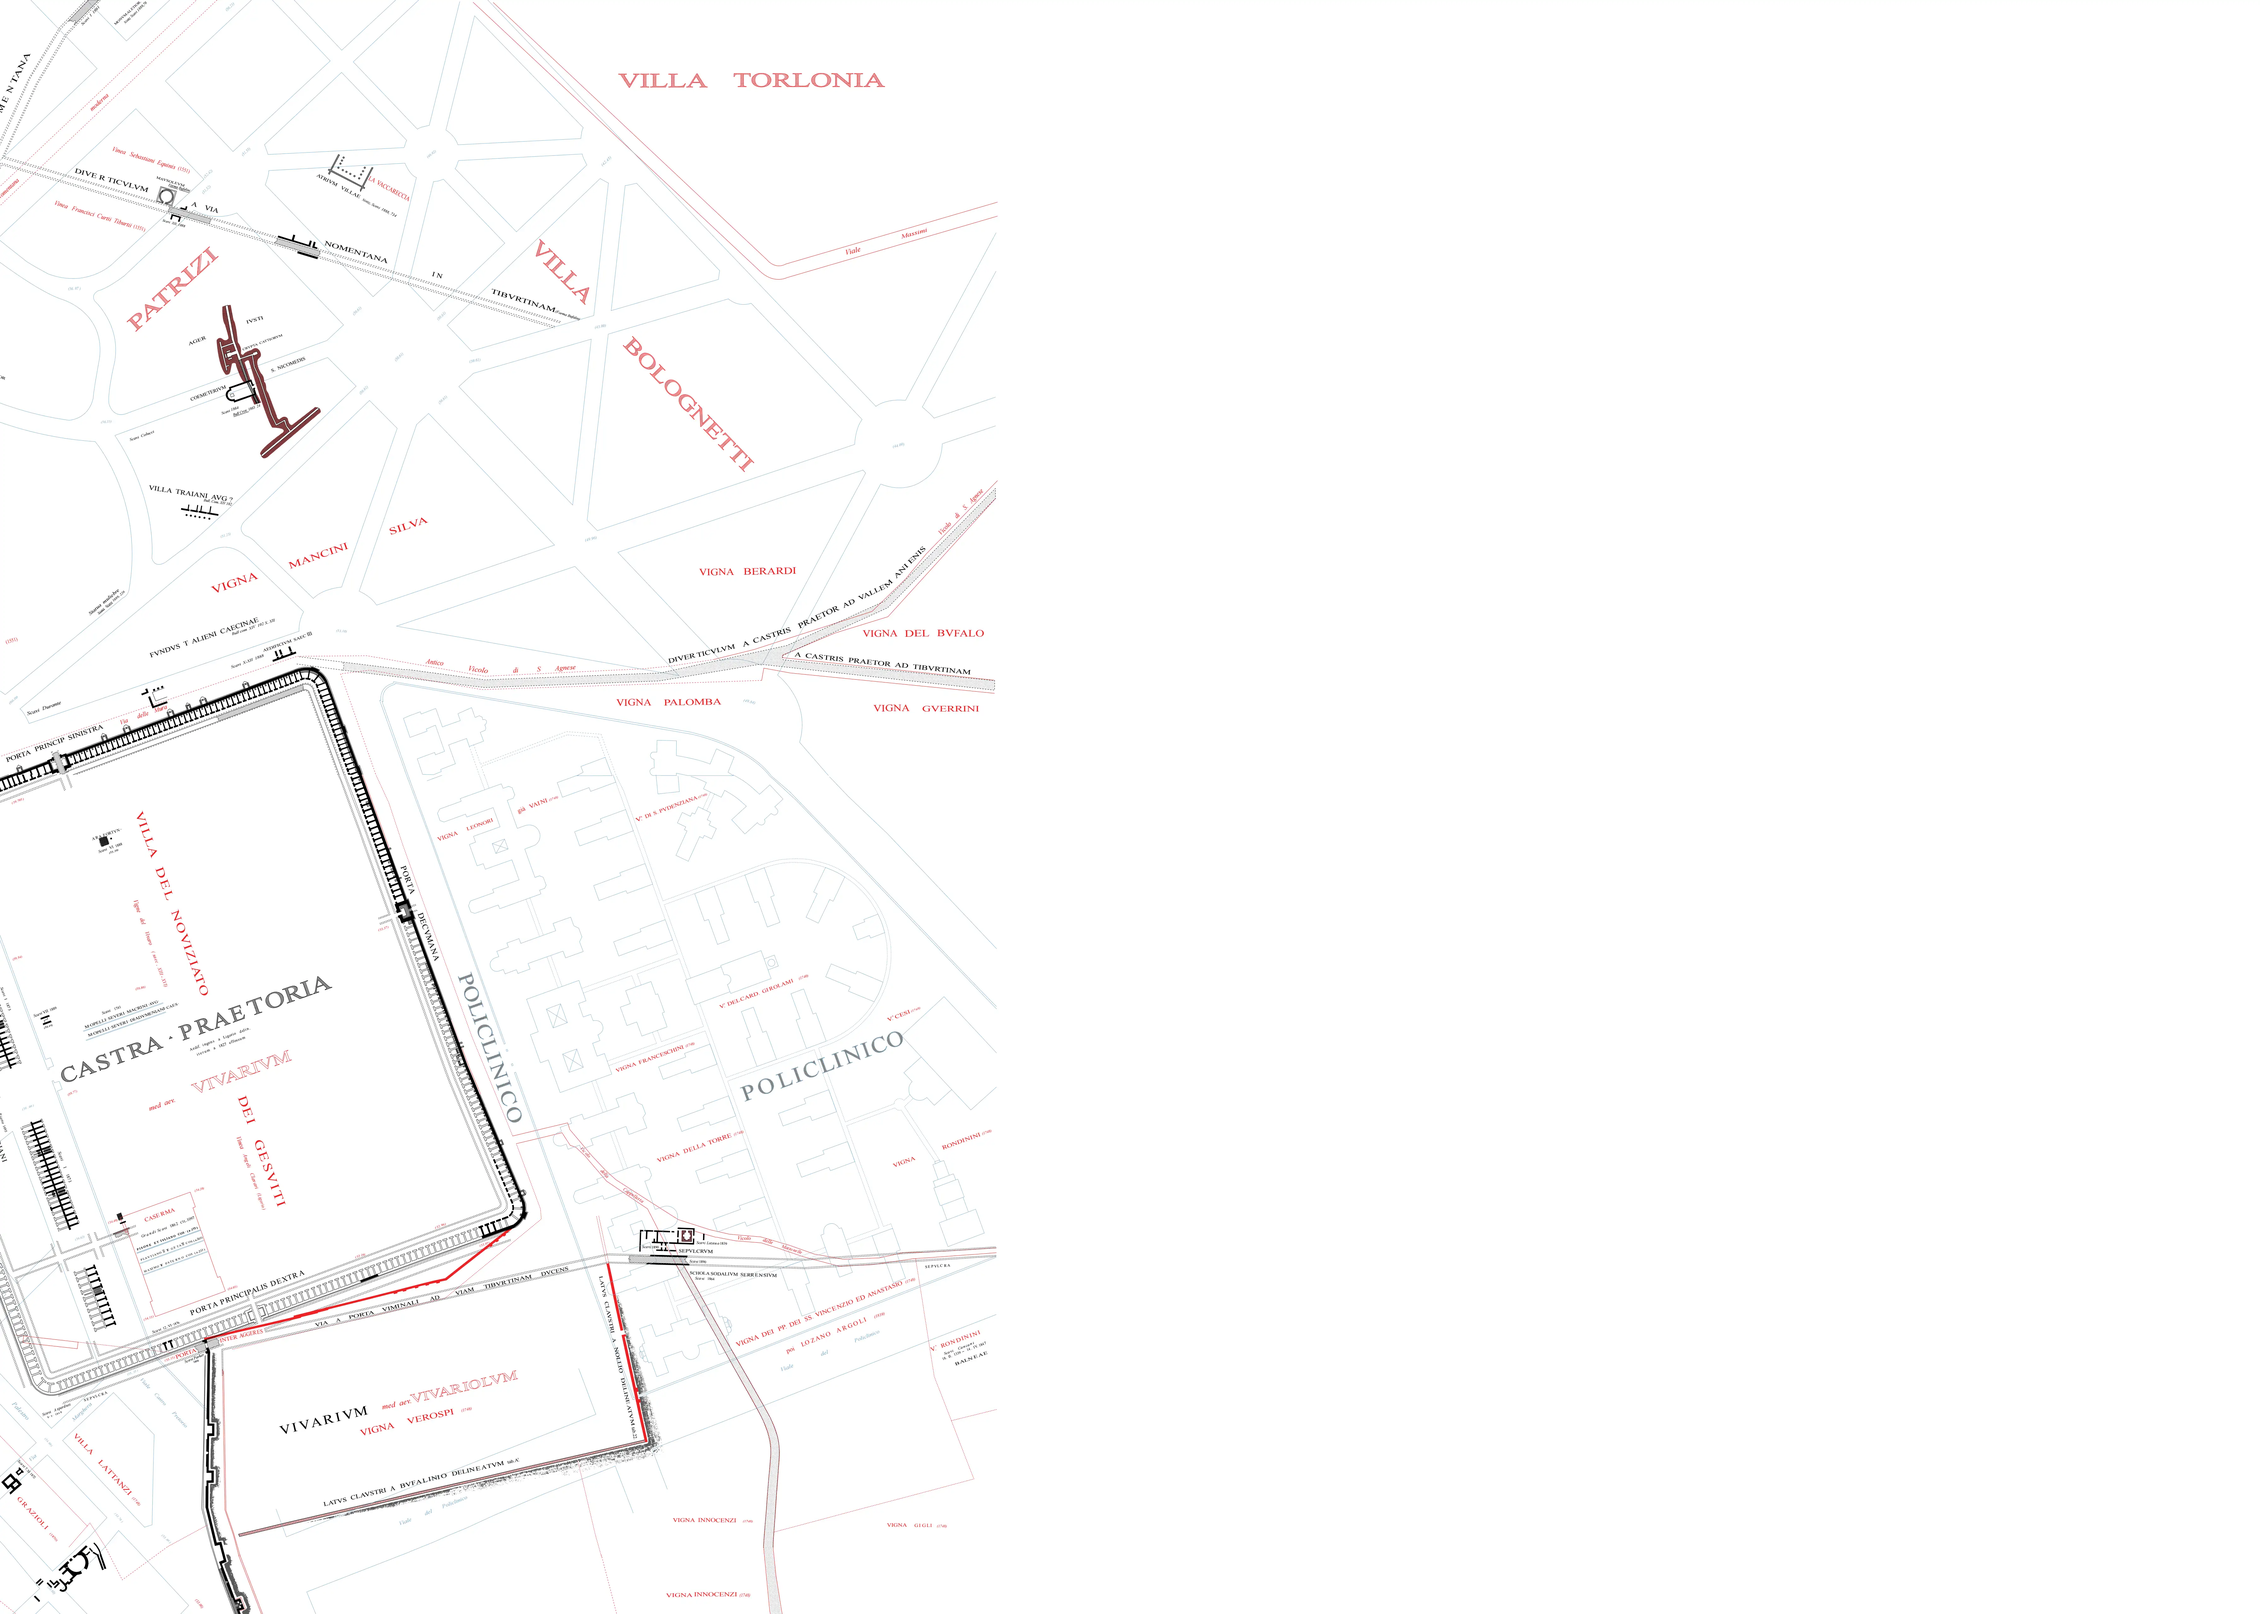
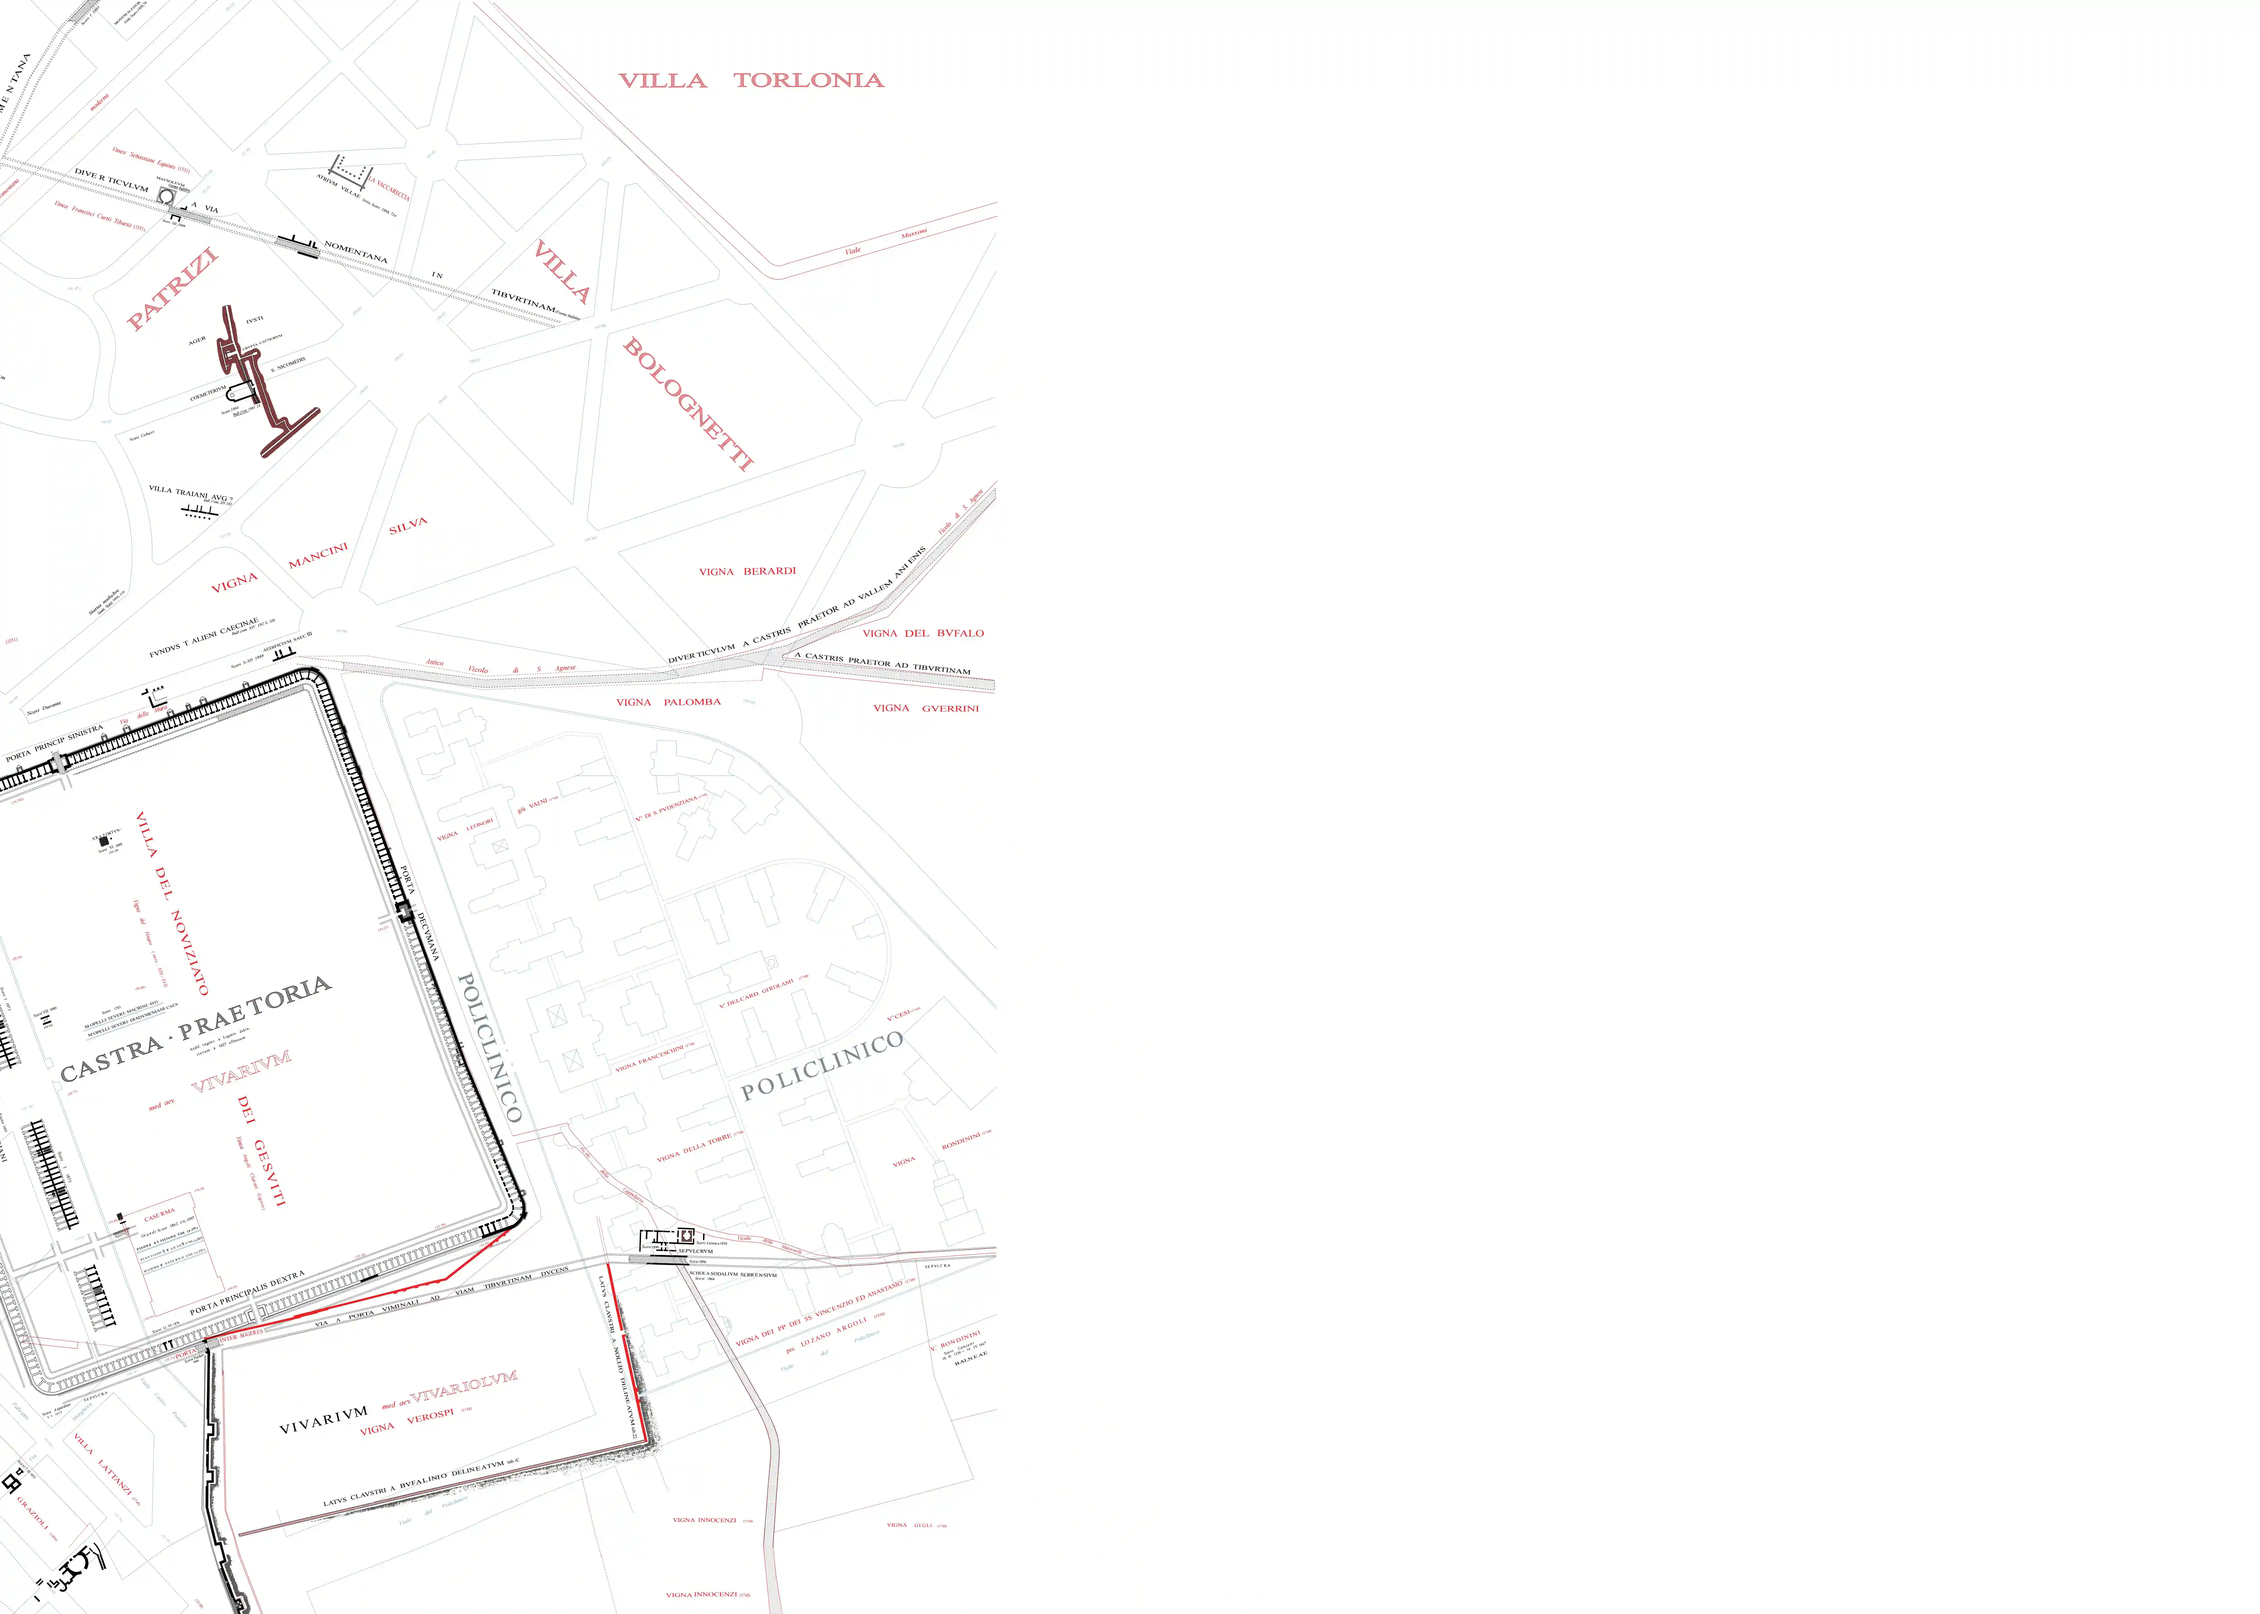
Aggressively optimized Lanciani WebP tiles for mobile performance

Changed region(s): [[0.0625, 0.8125, 0.125, 0.8438], [0.0938, 0.2188, 0.125, 0.25]]

diff --git a/optimize_images.py b/optimize_images.py
@@ -1,0 +1,18 @@
+import os
+from PIL import Image
+
+def optimize_webp(file_path, quality=15):
+    try:
+        img = Image.open(file_path)
+        original_size = os.path.getsize(file_path)
+        img.save(file_path, "WEBP", quality=quality, method=6)
+        new_size = os.path.getsize(file_path)
+        reduction = (original_size - new_size) / original_size * 100
+        print(f"Optimized {file_path}: {original_size/1024:.1f}KB -> {new_size/1024:.1f}KB ({reduction:.1f}% reduction)")
+    except Exception as e:
+        print(f"Error optimizing {file_path}: {e}")
+
+# Optimize all Lanciani tiles
+files = [f for f in os.listdir(".") if f.startswith("lanciani_v5_") and f.endswith(".webp")]
+for f in sorted(files):
+    optimize_webp(f)
